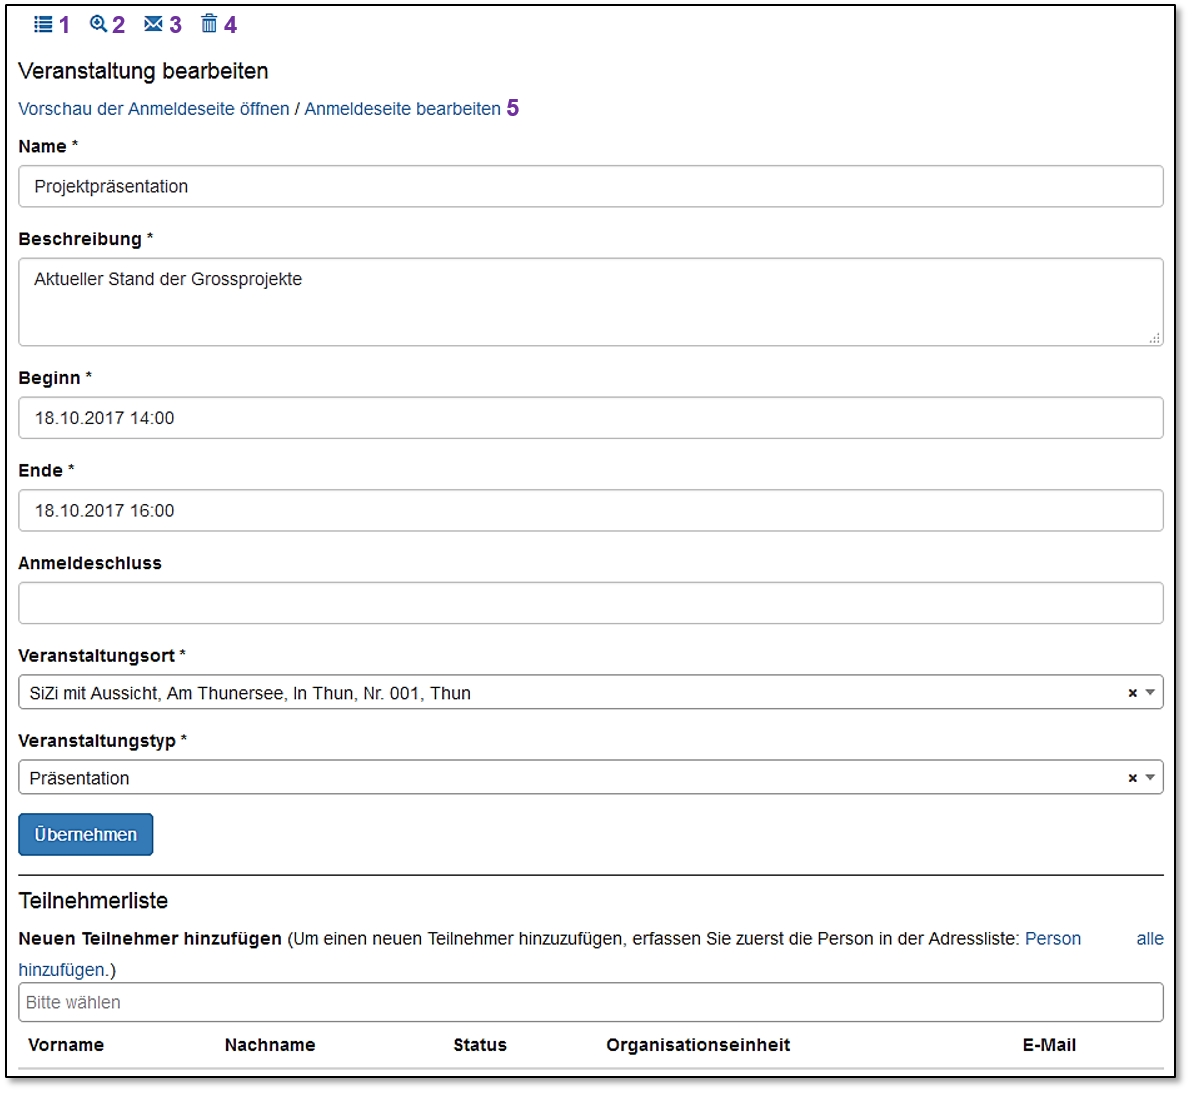
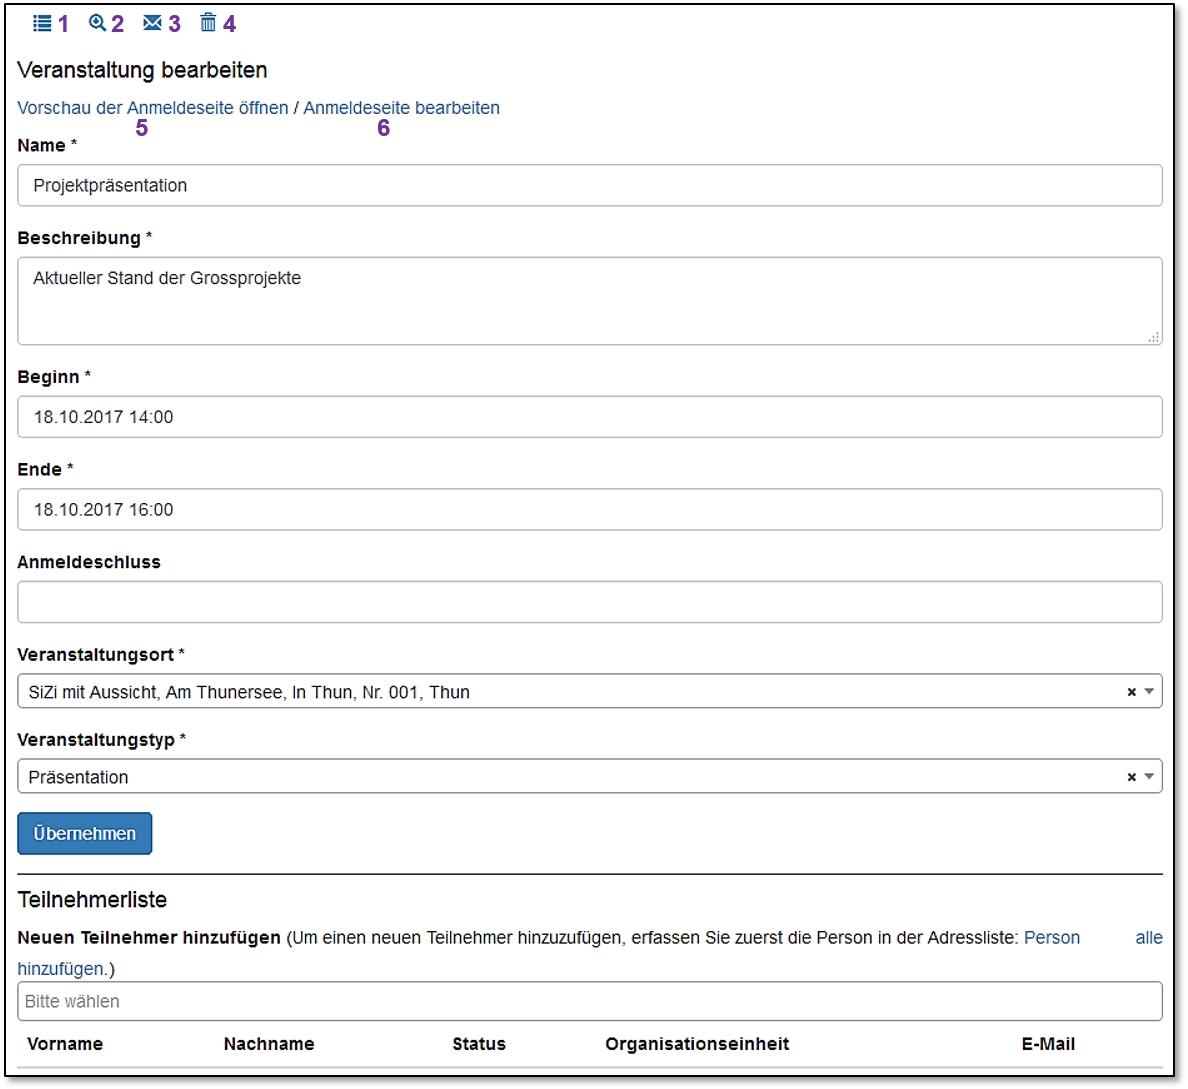
[german] CRM Handbuch
CRM Handbuch: weitere Kapitel erstellen

Changed region(s): [[0.0, 0.0, 0.9966, 0.9991], [0.0, 0.0, 0.436, 0.3122]]

diff --git a/german/chapters/10_CRM/10_CRM.tex b/german/chapters/10_CRM/10_CRM.tex
@@ -114,10 +114,21 @@ Die meisten Felder sind Pflichtfelder und müssen ausgefüllt werden. Sind alle 
 \end{figure}
 
 Im unteren Bereich der Eingabemaske wird die Teilnehmerliste eingeblendet. Mehr über die Teilnehmerliste finden Sie im nächsten Kapitel \ref{bkm:Ref112017102}. Kehren Sie mit Klick auf das Listensymbol \includegraphics[height=12pt]{/Icons/Listensymbol.jpg} \col{(1)} zur Veranstaltungsübersicht zurück. Verlassen Sie den Bearbeitungsmodus mit Klick auf die Lupe \includegraphics[height=12pt]{/Icons/Lupe.jpg} \col{(2)} oder wechseln Sie in die Mailvorlagenansicht mittels dem Mailsymbol \includegraphics[height=12pt]{/Icons/Briefsymbol.jpg} \col{(3)}. Sie haben auch die Möglichkeit eine Veranstaltung zu löschen. Dazu klicken Sie auf das Mülltonnensymbol \includegraphics[height=12pt]{/Icons/Muelltonne.jpg} \col{(4)}.\\
-Nun haben Sie auch die Möglichkeit die Einladungsseite (Online-Flyer) zu erstellen. Mit Klick auf den blauen Text 'Vorschau der Anmeldeseite öffnen / Anmeldeseite bearbeiten' gelangen Sie auf die Gestaltungswebseite. Meh dazu im Kapitel \ref{bkm:Ref112017101} (Einladungsseite gestalten).
+Nun haben Sie auch die Möglichkeit die Einladungsseite (Online-Flyer) zu erstellen. Mit Klick auf den blauen Text 'Anmeldeseite bearbeiten' \col{(6)} gelangen Sie auf die Gestaltungswebseite. Mit Klick auf den blauen Text 'Vorschau der Anmeldeseite öffnen' \col{(5)} können Sie Ihre Einladungsseite ansehen. Mehr dazu im Kapitel \ref{bkm:Ref112017101} (Einladungsseite gestalten).
 
 \subsubsection{Teilnehmer verwalten}
 \label{bkm:Ref112017102}
+
+\textbf{Hinweis:} Vorgängig müssen Teilnehmer in der Adressliste erfasst werden, damit sie im CRM zur Auswahl zur Verfügung stehen. Sie haben jedoch die Möglichkeit, von der Teilnehmerverwaltung des CRM mit einem Klick direkt in die Adressliste zu wechseln \col{(1)}, um neue Teilnehmer zu erfassen. Mehr zum Thema Personen und Firmen in der Adressliste erfassen, finden Sie im Kapitel \ref{bkm:Ref443738751}.
+
+\vspace{\baselineskip}
+
+\textbf{Hinweis zum Speichern beim Hinzufügen von Teilnehmern:} Werden Teilnehmer ausgewählt, wird diese Auswahl gerade gespeichert. Deshalb ist die Funktion 'alle' Teilnehmer \col{(2)} (alle Personen aus der Adressliste) hinzuzufügen nur mit Vorsicht anzuwenden. Mit einem Klick haben Sie ihre ganze Adressliste in der Einladung gespeichert.
+
+\vspace{\baselineskip}
+
+Mit Klick auf 'alle' \col{(2)} werden sämtliche Personen in der Adressliste einer Einladung hinzugefügt. Beachten Sie obigen Hinweis zum Speichern. Sie können die Personen mit Vor- oder Nachnamen direkt in das Suchfeld \col{(3)} eintragen und aus des gefunden Einträgen mit Mausklick auswählen. Die Suche funktioniert auch mit Eingabe von Firmennamen; sämtliche Personen einer gesuchten Firma werden angezeigt. \\
+Wurden Teilnehmer ausgewählt, wird der Status automatisch auf 'neu' gesetzt. Dieser lässt sich mit dem Stiftsymbol \includegraphics[height=12pt]{/Icons/Stift.jpg} \col{(4)} ändern. Mit Klick auf das Kreuzsymbol \includegraphics[height=12pt]{/Icons/Kreuzchen.jpg} \col{(5)} können Teilnehmer wieder gelöscht werden. Da sämtliche Mutationen gerade gespeichert werden, müssen Sie nicht auf 'Übernehmen' klicken.
 
 \begin{figure}[H]
 \center{\includegraphics[width=1\linewidth]{../chapters/10_CRM/pictures/10-2-2_Teilnehmerliste.jpg}}
@@ -125,24 +136,54 @@ Nun haben Sie auch die Möglichkeit die Einladungsseite (Online-Flyer) zu erstel
 % \label{fig:speciation}
 \end{figure}
 
+\textbf{Teilnehmerlsiten exportieren}
 
+Im Betrachtungsmodus \includegraphics[height=12pt]{/Icons/Lupe.jpg} haben Sie die Möglichkeit mit Klick auf das Downloadsymbol \includegraphics[height=12pt]{/Icons/Download.jpg} \col{(1)} eine Teilnehmerlsite im Excel (.xlsx) zu exportieren.
 
-inkl. Export
-inkl. neue Person erfassen (Adressliste)
-hinzufügen, löschen, Status ändern, 
+\begin{figure}[H]
+\center{\includegraphics[width=.7\linewidth]{../chapters/10_CRM/pictures/10-2-2_Teilnehmerliste_exportieren.jpg}}
+\caption{Teilnehmerliste exportieren}
+% \label{fig:speciation}
+\end{figure}
 
+Ebenso können Sie im Betrachtungsmodus \includegraphics[height=12pt]{/Icons/Lupe.jpg} in der Teilnehmerliste nach den verschiedenen Feldern (Vorname, Nachnamen, Status, Organisationseinheit und Email) suchen und die Einträge nach dem Status sortieren. Mit Klick auf das Personensymbol  \includegraphics[height=12pt]{/Icons/Person.jpg} können Sie direkt in der Adressliste den Eintrag einer Person ändern. Um von der Adressliste wieder zum CRM zurückzukehren, schliessen Sie nach dem Speichern (Klick auf 'Übernehmen') das zusätzlich geöffnete Browserfenster.
 
 \subsubsection{Einladungsseite gestalten (Online-Flyer)}
 \label{bkm:Ref112017101}
 
-Text x
+Klicken Sie im Bearbeitungsmodus der Einladung auf den blauen Text 'Anmeldeseite bearbeiten' \col{(5)}. 
 
-\subsubsection{Einladungen versenden}
+\begin{figure}[H]
+\center{\includegraphics[width=1\linewidth]{../chapters/10_CRM/pictures/10-2-3_Einladung_gestalten_Link.jpg}}
+\caption{Einladungsseite gestalten}
+% \label{fig:speciation}
+\end{figure}
 
-inkl. Emailvorlage bearbeiten
+Nun wird eine leere Editierseite der Onlineeinladung geöffnet:
 
-\subsubsection{Bestehende Veranstaltungen betrachten und bearbeiten}
+\begin{figure}[H]
+\center{\includegraphics[width=1\linewidth]{../chapters/10_CRM/pictures/10-2-3_Leere_Einladung.jpg}}
+\caption{Leere Einladungsseite}
+% \label{fig:speciation}
+\end{figure}
 
-Veranstaltung löschen
-Text x
+Mit dem Stiftsymbol \includegraphics[height=12pt]{/Icons/Stift.jpg} können Sie nun die verschiedenen Bereiche gestalten. Mit dem Kreuzsymbol \includegraphics[height=12pt]{/Icons/Kreuzchen.jpg} können Sie Bereiche löschen.
+Die grossen Icons stehen für einen Titel \col{(1)}. Mit Klick auf den Stift \includegraphics[height=12pt]{/Icons/Stift.jpg} öffnet sich ein reines Textfeld, in welchem Sie den Titel des Bereiches eingeben und mit dem Gutzeichen \includegraphics[height=12pt]{/Icons/Gutzeichen.jpg} speichern können.
+Mit Klick auf den Stift \includegraphics[height=12pt]{/Icons/Stift.jpg} für die Beschreibung \col{(2)} öffnet sich ein ausführliches Editierfenster, in welchem Sie den Text nach Belieben formatieren können (siehe unten). Unterhalb des Textes 'Platzhalter für Bild, editieren mit Bleistift unter diesem Satz' können Sie mit Klick auf den Stift \includegraphics[height=12pt]{/Icons/Stift.jpg} ein Bild hochladen, indem Sie auf 'Durchsuchen' klicken und das gewünschte Bild auswählen und mit dem Gutzeichen \includegraphics[height=12pt]{/Icons/Gutzeichen.jpg} bestätigen. 
+
+\begin{figure}[H]
+\center{\includegraphics[width=.7\linewidth]{../chapters/10_CRM/pictures/10-2-3_Text_formatieren.jpg}}
+\caption{Text formatieren}
+% \label{fig:speciation}
+\end{figure}
+
+
+% \subsubsection{Einladungen versenden}
+
+% inkl. Emailvorlage bearbeiten
+
+% \subsubsection{Bestehende Veranstaltungen betrachten und bearbeiten}
+
+% Veranstaltung löschen
+% Text x
 

diff --git a/german/CUBEPA_Handbuch.tex b/german/CUBEPA_Handbuch.tex
@@ -151,7 +151,7 @@ Copyright & \copyright{ Emch+Berger AG Bern}\\
 \include{chapters/07_Beschaffungswesen/07_Beschaffungswesen}		% Beschaffung wird nur generisch beschrieben -> wo nötig kundenspezifische QuickRef
 \include{chapters/08_Anforderungen/08_Anforderungen}				% aktuell nur WBZU
 \include{chapters/09_Qualitaetsmanagement/09_Qualitaetsmanagement} % --> Bezieht sich aufs Handbuch aktuell nur WBZU resp. ist dieses Thema im Qualitätsmanagement enthalten?
-% \include{chapters/10_CRM/10_CRM}
+\include{chapters/10_CRM/10_CRM}
 \include{chapters/11_Dokumentenablage/11_Dokumentenablage}
 \include{chapters/12_Importieren/12_Importieren}
 \include{chapters/13_Konfigurationen/13_Konfigurationen}
